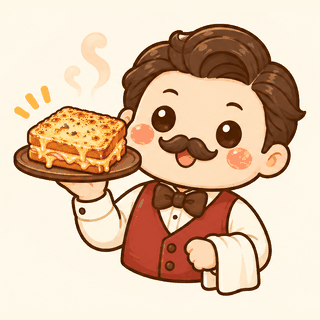
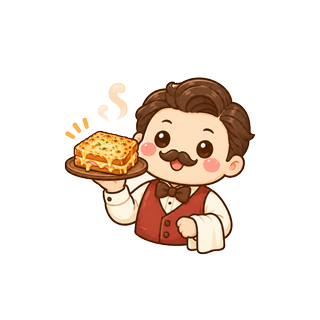
Remove visible frames from mascots

diff --git a/public/assets/style.css b/public/assets/style.css
@@ -106,7 +106,7 @@
 .dark-mode.theme-qroque{--muted:var(--color-171)}
 .dark-mode.theme-qroque .dish-price{color:var(--color-172)}
 .dark-mode .empty-cart{color:var(--color-131)}
-.concept-toggle{position:fixed;z-index:19;right:max(18px,calc((100vw - 1160px)/2));bottom:22px;display:flex;align-items:center;gap:9px;min-height:52px;padding:6px 16px 6px 8px;border:1px solid var(--color-173);border-radius:99px;background:var(--color-174);color:var(--color-175);box-shadow:0 8px 25px var(--color-176);font-size:12px;font-weight:700;text-decoration:none}.concept-toggle img{width:38px;height:38px;object-fit:contain}.concept-toggle:hover{transform:translateY(-2px);box-shadow:0 11px 28px var(--color-177)}.cart-group-title{margin:12px 0 0;padding:10px 0 4px;border-bottom:1px solid var(--line);font-size:13px;color:var(--muted)}.cart-group-title:first-child{margin-top:0}.dark-mode .concept-toggle{background:var(--color-178);color:var(--color-128);border-color:var(--color-179)}.cart-items{padding-bottom:72px}
+.concept-toggle{position:fixed;z-index:19;right:max(18px,calc((100vw - 1160px)/2));bottom:22px;display:flex;align-items:center;gap:9px;min-height:52px;padding:6px 16px 6px 8px;border:0;border-radius:99px;background:transparent;color:var(--color-175);box-shadow:none;font-size:12px;font-weight:700;text-decoration:none}.concept-toggle img{width:38px;height:38px;object-fit:contain}.concept-toggle:hover{transform:translateY(-2px);box-shadow:none}.cart-group-title{margin:12px 0 0;padding:10px 0 4px;border-bottom:1px solid var(--line);font-size:13px;color:var(--muted)}.cart-group-title:first-child{margin-top:0}.dark-mode .concept-toggle{background:transparent;color:var(--color-128);border-color:transparent}.cart-items{padding-bottom:72px}
 @media(max-width:760px){.concept-toggle{position:relative;right:auto;bottom:auto;width:max-content;min-height:46px;margin:-12px 0 18px auto;padding:5px 12px 5px 6px;font-size:11px}.concept-toggle img{width:34px;height:34px}.cart-items{padding-bottom:75px}}
 .dark-mode .opening-screen{background:var(--color-130);color:var(--color-128)}.dark-mode .opening-screen strong{color:var(--color-128)}.dark-mode .opening-screen>span:last-child{color:var(--color-131)}
 
@@ -127,8 +127,8 @@
 @font-face{font-family:'Nunito';font-style:normal;font-weight:400 900;font-display:swap;src:url('fonts/nunito.woff2') format('woff2');unicode-range:U+0000-00FF,U+0131,U+0152-0153,U+02BB-02BC,U+02C6,U+02DA,U+02DC,U+0304,U+0308,U+0329,U+2000-206F,U+20AC,U+2122,U+2191,U+2193,U+2212,U+2215,U+FEFF,U+FFFD}
 @font-face{font-family:'Nunito';font-style:normal;font-weight:400 900;font-display:swap;src:url('fonts/nunito-ext.woff2') format('woff2');unicode-range:U+0100-02BA,U+02BD-02C5,U+02C7-02CC,U+02CE-02D7,U+02DD-02FF,U+0304,U+0308,U+0329,U+1D00-1DBF,U+1E00-1E9F,U+1EF2-1EFF,U+2020,U+20A0-20AB,U+20AD-20C0,U+2113,U+2C60-2C7F,U+A720-A7FF}
 :root{--ink:var(--color-180);--paper:var(--color-181);--red:var(--color-182);--green:var(--color-183);--gold:var(--color-184);--white:var(--color-005);--muted:var(--color-185);--line:var(--color-186);--shadow:0 12px 32px var(--color-187);--serif:'Baloo 2',system-ui,sans-serif;--sans:'Nunito',Arial,sans-serif}
-body{font-family:var(--sans);font-size:16px;line-height:1.5}.landing{background:var(--color-188);background-image:radial-gradient(circle at 10% 15%,var(--color-189) 0 2px,var(--transparent) 3px);background-size:28px 28px}.landing-card{background:linear-gradient(145deg,var(--color-190),var(--color-191));border:1px solid var(--color-192);border-radius:32px;box-shadow:0 24px 80px var(--color-193)}.landing-copy{max-width:62%;padding:45px 0 48px}.landing h1{font-family:var(--serif);font-weight:800;letter-spacing:-.035em}.baseline{font:700 clamp(21px,3vw,30px)/1.3 var(--serif)}.landing-mascot{position:absolute;right:5%;top:28%;width:min(37%,390px);aspect-ratio:1;object-fit:contain;z-index:0;filter:drop-shadow(0 18px 18px var(--color-194));mix-blend-mode:multiply}.landing-qroque .landing-mascot{width:min(39%,420px);right:3%;top:27%}.landing .restaurant-switch{background:var(--color-174);border-color:var(--color-195)}.landing .restaurant-switch a[aria-current=page]{background:var(--color-196);color:var(--color-029)}.landing .button-primary{background:var(--color-197);color:var(--color-029)}.landing .button-primary:hover{background:var(--color-198)}.landing .button-quiet{border-color:var(--color-199);background:var(--color-200)}.landing-bottom{border-color:var(--color-201)}.landing .eyebrow{color:var(--color-202)}.landing .landing-jp{color:var(--color-203)}
-.menu-hero{padding:40px clamp(18px,4vw,40px) 34px;margin:0 -1px 24px}.menu-hero h1,.section-title,.dish-heading h3,.drawer-head h2,.confirm-wrap h2,.qr-intro h1,.qr-list-heading h2,.qr-table-card h3{font-family:var(--serif);font-weight:700;letter-spacing:0}.menu-hero .kicker,.qr-page .qr-intro .kicker{color:var(--color-204)}.dish-grid{gap:20px}.dish-card{border:1px solid var(--color-205);border-radius:23px;box-shadow:0 8px 22px var(--color-206)}.dish-art{background:var(--color-019)}.dish-label{font-size:11px;color:var(--color-207)}.dish-body p{font-size:14px;line-height:1.5;color:var(--color-208);min-height:42px}.tag{font-size:11px;color:var(--color-209);background:var(--color-210)}.tag.green{color:var(--color-211);background:var(--color-212)}.dish-price{color:var(--color-213)}.add-button{background:var(--color-182)}.filter,.allergen-open{font-size:14px;color:var(--color-214);border-color:var(--color-215);background:var(--color-174)}.filter.active{background:var(--color-216);border-color:var(--color-216);color:var(--color-029)}.allergen-badge{min-width:30px;height:30px;background:var(--color-217);color:var(--color-218);border-color:var(--color-219);font-size:11px}.allergen-detail{font-size:12px!important;color:var(--color-208)!important}.allergy-warning,.site-footer,.demo-note,.dish-body p,.qr-page .qr-intro>p:last-child{color:var(--color-208)}.table-pill{font-size:13px;color:var(--color-214)}.cart-trigger{background:var(--color-220);font-size:14px}.button{font-size:15px}.qr-page .qr-tools,.qr-page .qr-table-card{border-color:var(--color-205)}.qr-page .qr-action,.qr-page .qr-action.primary{font-family:var(--sans);font-size:14px}.qr-page .qr-intro h1{color:var(--color-221)}.qr-page .qr-main{margin-top:38px}.qr-page .qr-list-heading .label{color:var(--color-222)}.qr-page .qr-table-card p{font-size:13px;color:var(--color-208)}.qr-page .qr-print-sheet{font-family:var(--sans)}.qr-print-sheet .print-mascot{width:24mm;height:24mm;object-fit:contain;margin:0 auto 1.5mm;mix-blend-mode:multiply}.qr-print-sheet .print-logo{height:12mm;margin-bottom:1mm}.qr-print-sheet h1{font-family:var(--serif);font-size:19pt;margin-bottom:1mm}.qr-print-sheet .print-qr-frame{width:61mm;height:61mm;padding:2.5mm}.qr-print-sheet .print-qr{width:56mm;height:56mm}
+body{font-family:var(--sans);font-size:16px;line-height:1.5}.landing{background:var(--color-188);background-image:radial-gradient(circle at 10% 15%,var(--color-189) 0 2px,var(--transparent) 3px);background-size:28px 28px}.landing-card{background:linear-gradient(145deg,var(--color-190),var(--color-191));border:1px solid var(--color-192);border-radius:32px;box-shadow:0 24px 80px var(--color-193)}.landing-copy{max-width:62%;padding:45px 0 48px}.landing h1{font-family:var(--serif);font-weight:800;letter-spacing:-.035em}.baseline{font:700 clamp(21px,3vw,30px)/1.3 var(--serif)}.landing-mascot{position:absolute;right:5%;top:28%;width:min(37%,390px);height:auto;aspect-ratio:1;object-fit:contain;z-index:0;filter:none;mix-blend-mode:normal}.landing-qroque .landing-mascot{width:min(39%,420px);right:3%;top:27%}.landing .restaurant-switch{background:var(--color-174);border-color:var(--color-195)}.landing .restaurant-switch a[aria-current=page]{background:var(--color-196);color:var(--color-029)}.landing .button-primary{background:var(--color-197);color:var(--color-029)}.landing .button-primary:hover{background:var(--color-198)}.landing .button-quiet{border-color:var(--color-199);background:var(--color-200)}.landing-bottom{border-color:var(--color-201)}.landing .eyebrow{color:var(--color-202)}.landing .landing-jp{color:var(--color-203)}
+.menu-hero{padding:40px clamp(18px,4vw,40px) 34px;margin:0 -1px 24px}.menu-hero h1,.section-title,.dish-heading h3,.drawer-head h2,.confirm-wrap h2,.qr-intro h1,.qr-list-heading h2,.qr-table-card h3{font-family:var(--serif);font-weight:700;letter-spacing:0}.menu-hero .kicker,.qr-page .qr-intro .kicker{color:var(--color-204)}.dish-grid{gap:20px}.dish-card{border:1px solid var(--color-205);border-radius:23px;box-shadow:0 8px 22px var(--color-206)}.dish-art{background:var(--color-019)}.dish-label{font-size:11px;color:var(--color-207)}.dish-body p{font-size:14px;line-height:1.5;color:var(--color-208);min-height:42px}.tag{font-size:11px;color:var(--color-209);background:var(--color-210)}.tag.green{color:var(--color-211);background:var(--color-212)}.dish-price{color:var(--color-213)}.add-button{background:var(--color-182)}.filter,.allergen-open{font-size:14px;color:var(--color-214);border-color:var(--color-215);background:var(--color-174)}.filter.active{background:var(--color-216);border-color:var(--color-216);color:var(--color-029)}.allergen-badge{min-width:30px;height:30px;background:var(--color-217);color:var(--color-218);border-color:var(--color-219);font-size:11px}.allergen-detail{font-size:12px!important;color:var(--color-208)!important}.allergy-warning,.site-footer,.demo-note,.dish-body p,.qr-page .qr-intro>p:last-child{color:var(--color-208)}.table-pill{font-size:13px;color:var(--color-214)}.cart-trigger{background:var(--color-220);font-size:14px}.button{font-size:15px}.qr-page .qr-tools,.qr-page .qr-table-card{border-color:var(--color-205)}.qr-page .qr-action,.qr-page .qr-action.primary{font-family:var(--sans);font-size:14px}.qr-page .qr-intro h1{color:var(--color-221)}.qr-page .qr-main{margin-top:38px}.qr-page .qr-list-heading .label{color:var(--color-222)}.qr-page .qr-table-card p{font-size:13px;color:var(--color-208)}.qr-page .qr-print-sheet{font-family:var(--sans)}.qr-print-sheet .print-mascot{width:24mm;height:24mm;object-fit:contain;margin:0 auto 1.5mm;mix-blend-mode:normal}.qr-print-sheet .print-logo{height:12mm;margin-bottom:1mm}.qr-print-sheet h1{font-family:var(--serif);font-size:19pt;margin-bottom:1mm}.qr-print-sheet .print-qr-frame{width:61mm;height:61mm;padding:2.5mm}.qr-print-sheet .print-qr{width:56mm;height:56mm}
 /* Les postes cuisine et salle gardent leur contraste et leurs aplats de travail. */
 .kitchen-page,.staff-page{font-family:var(--sans)}.kitchen-page .kitchen-title,.staff-page .kitchen-title,.kitchen-page .column-head h2,.staff-page .table-card h2{font-family:var(--serif)}.kitchen-page .kitchen-tools,.staff-page .kitchen-tools{font-size:14px}.kitchen-page .kitchen-tools select,.kitchen-page .kitchen-tools button,.staff-page .kitchen-tools select,.staff-page .kitchen-tools button,.table-actions button{font-family:var(--sans);font-size:14px}
 @media(max-width:700px){.landing-copy{max-width:100%;padding:24px 0 34px}.landing-mascot{width:48%;right:1%;top:36%;opacity:.58}.landing h1{font-size:clamp(66px,16vw,112px)}.landing-bottom{gap:26px;z-index:1}.landing .landing-actions{position:relative;z-index:2}.menu-hero{padding:34px 18px 28px;margin:0 -2px 20px;border-radius:0 0 23px 23px}.dish-grid{gap:13px}}
@@ -150,7 +150,7 @@ body{font-family:var(--sans);font-size:16px;line-height:1.5}.landing{background:
   .menu-legend-row .filters{display:flex;gap:8px;overflow-x:auto;overflow-y:hidden;scroll-snap-type:x mandatory;padding:4px 1px 12px;overscroll-behavior-x:contain}
   .menu-legend-row .filter{flex:0 0 auto;min-height:44px;padding:0 15px;scroll-snap-align:start}
   .allergen-open{min-height:44px;margin:0 0 4px}
-  .concept-toggle{position:fixed;right:12px;bottom:12px;z-index:30;min-height:40px;padding:0 11px;gap:7px;font-size:10px;box-shadow:0 4px 16px #0002}
+  .concept-toggle{position:fixed;right:12px;bottom:12px;z-index:30;min-height:40px;padding:0 11px;gap:7px;font-size:10px;box-shadow:none}
   .concept-toggle img{width:25px;height:25px}
   .dish-grid{padding-bottom:96px}
 }
@@ -159,7 +159,7 @@ body{font-family:var(--sans);font-size:16px;line-height:1.5}.landing{background:
 .site-footer .signature-links a{font-size:inherit}
 @media print{.qr-print-sheet{padding-top:6mm!important;padding-bottom:6mm!important}.qr-print-sheet .print-logo{height:10mm;margin-bottom:1mm}.qr-print-sheet .print-mascot{height:18mm;width:18mm;margin-bottom:1mm}.qr-print-sheet h1{font-size:18pt;margin-bottom:.5mm}.qr-print-sheet .print-instruction{margin-bottom:2mm}.qr-print-sheet .print-qr-frame{width:55mm;height:55mm;padding:2mm}.qr-print-sheet .print-qr{width:51mm;height:51mm}.qr-print-sheet .print-table{margin-top:2mm}}
 @media(max-width:380px){.site-header .cart-trigger{margin-left:auto;font-size:12px!important;width:auto!important;min-width:40px;height:36px;padding:0 10px}}
-.landing-mascot{border-radius:50%;clip-path:circle(49% at 50% 50%)}
+.landing-mascot{border-radius:0;clip-path:none}
 @media(max-width:700px){.landing-mascot,.landing-qroque .landing-mascot{top:13%;right:3%;width:29%;opacity:.72}}
 @media(max-width:430px){.landing-qroque h1{font-size:clamp(48px,15vw,58px);letter-spacing:-.05em}}
 .landing-qroque h1{font-size:clamp(70px,12vw,140px)}
@@ -256,7 +256,7 @@ body{font-size:var(--font-body);line-height:1.5}
 .order-card .order-num,.order-card.watch .elapsed-time,.order-card.overdue .elapsed-time{color:var(--ink)}
 .order-card.watch .order-num{color:var(--ink)}
 .order-card.overdue .order-num{color:var(--ink)}
-@media(max-width:430px){.concept-toggle{position:fixed;right:12px;bottom:12px;z-index:30;width:42px;height:42px;min-height:42px;padding:3px;justify-content:center;gap:0;box-shadow:0 4px 16px #0002}.concept-toggle img{width:30px;height:30px}.concept-toggle span{position:absolute;width:1px;height:1px;padding:0;margin:-1px;overflow:hidden;clip:rect(0,0,0,0);white-space:nowrap;border:0}}
+@media(max-width:430px){.concept-toggle{position:fixed;right:12px;bottom:12px;z-index:30;width:42px;height:42px;min-height:42px;padding:3px;justify-content:center;gap:0;box-shadow:none}.concept-toggle img{width:30px;height:30px}.concept-toggle span{position:absolute;width:1px;height:1px;padding:0;margin:-1px;overflow:hidden;clip:rect(0,0,0,0);white-space:nowrap;border:0}}
 @media(min-width:431px){.concept-toggle{position:fixed;right:18px;bottom:18px;z-index:30;width:48px;height:48px;min-height:48px;padding:4px;justify-content:center;gap:0}.concept-toggle img{width:34px;height:34px}.concept-toggle span{position:absolute;width:1px;height:1px;padding:0;margin:-1px;overflow:hidden;clip:rect(0,0,0,0);white-space:nowrap;border:0}}
 
 /* Landing tient dans la hauteur visible, y compris avec les contrôles mobiles. */
@@ -327,7 +327,7 @@ button,select,input,textarea,.button,.filter,.restaurant-switch a,.staff-link,.q
   .qr-print-sheet.comptoir .print-page-title{top:2mm;left:0;width:100%;text-align:center;font-size:2.4mm}
   .qr-print-sheet .print-card{width:97mm;height:132mm;padding:4mm;border:.35mm dashed #8a8277;border-radius:2mm;display:flex;flex-direction:column;align-items:center;justify-content:center;text-align:center;overflow:hidden;font-family:Arial,sans-serif;break-inside:avoid}
   .qr-print-sheet.comptoir .print-card{width:148mm;height:210mm;padding:7mm}
-  .qr-print-sheet .print-mascot{width:24mm;height:24mm;object-fit:contain;margin:0 0 1mm;mix-blend-mode:multiply}
+  .qr-print-sheet .print-mascot{width:24mm;height:24mm;object-fit:contain;margin:0 0 1mm;mix-blend-mode:normal}
   .qr-print-sheet.comptoir .print-mascot{width:33mm;height:33mm;margin-bottom:2mm}
   .qr-print-sheet .print-card h2{font:700 13pt/1.05 Georgia,serif;margin:0 0 1mm;color:#14161a}
   .qr-print-sheet.comptoir .print-card h2{font-size:20pt;margin-bottom:2mm}
@@ -347,4 +347,8 @@ button{display:inline-flex;align-items:center;justify-content:center;line-height
 .dark-mode .filter{background:#252a2f;color:#ddd8cd;border-color:#666158}
 .dark-mode .filter.active{background:#f0e7d5;color:#202124;border-color:#f0e7d5}
 .opening-mascot{height:78px}.opening-mascot img{width:68px;height:68px}
-#landing-mascot{-webkit-clip-path:circle(45% at 50% 50%)!important;clip-path:circle(45% at 50% 50%)!important;filter:none;mix-blend-mode:darken}
+/* Aucune forme de cadre autour des mascottes, quelle que soit leur position ou le theme. */
+#landing-mascot{-webkit-clip-path:none!important;clip-path:none!important;filter:none!important;mix-blend-mode:normal!important;background:transparent!important;border:0!important;outline:0!important;box-shadow:none!important}
+.header-brand img,.brand-mark img,.mascot-loading img,.concept-toggle img,.print-mascot{background:transparent!important;border:0!important;outline:0!important;box-shadow:none!important;filter:none!important}
+.concept-toggle,.concept-toggle:hover,.dark-mode .concept-toggle{background:transparent!important;border:0!important;box-shadow:none!important}
+.qr-print-sheet .print-mascot{mix-blend-mode:normal!important}
